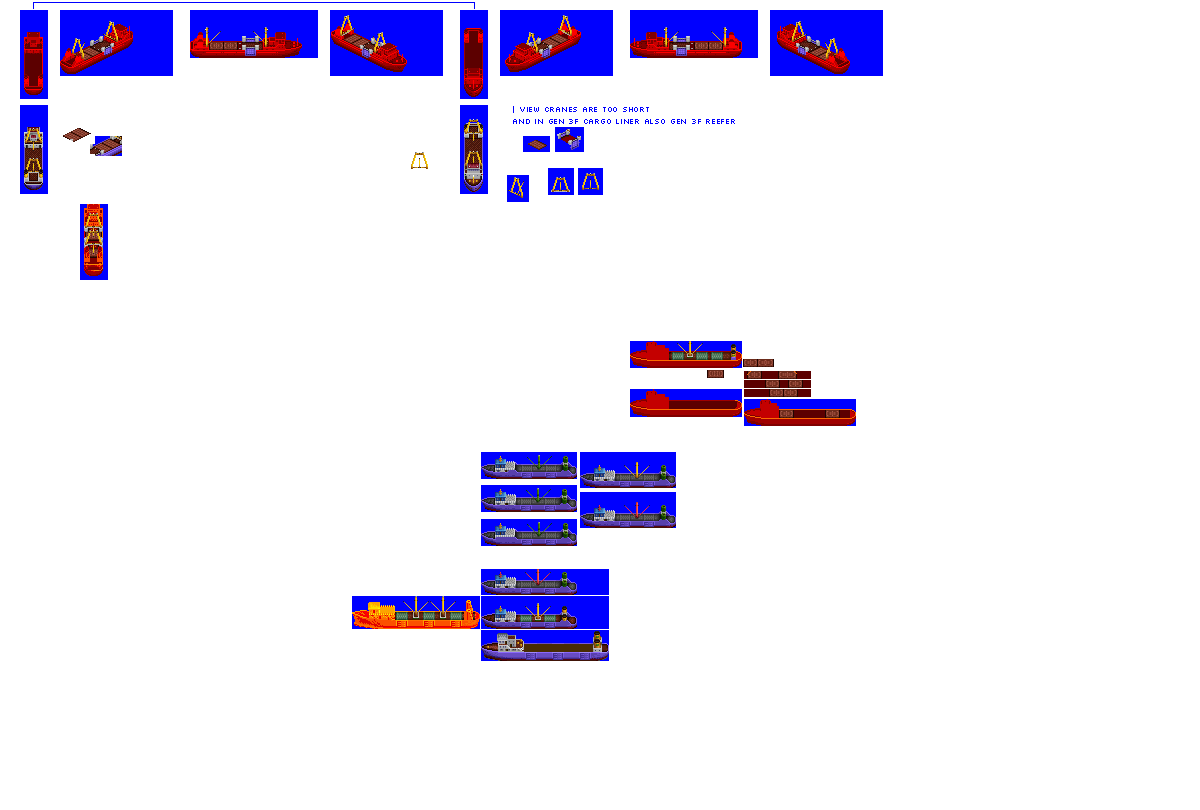
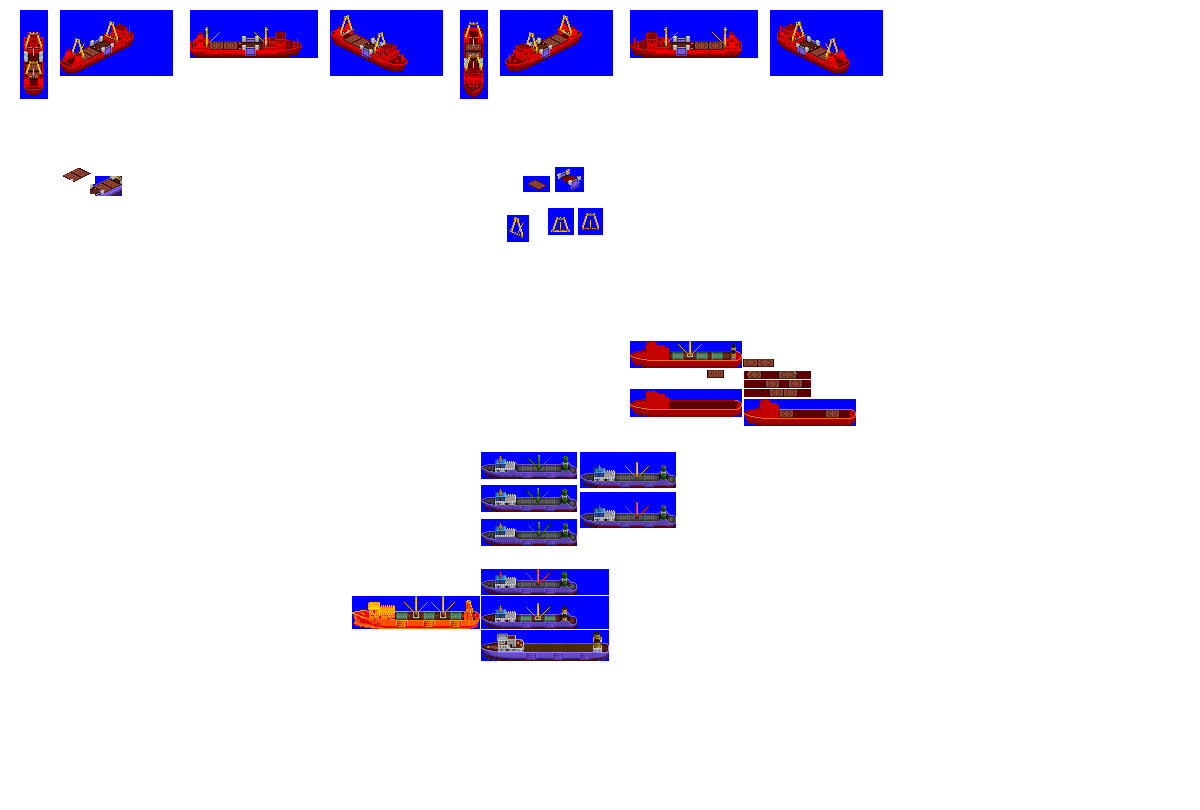
Change: sprites complete for gen 3E cargo liner

diff --git a/src/vehicles/cargo_liners.py b/src/vehicles/cargo_liners.py
@@ -49,7 +49,7 @@ def main():
         subtype="E",
         hull="ShipHouseForward",
         effect_type="EFFECT_SPRITE_DIESEL",
-        sprites_complete=False,
+        sprites_complete=True,
     )
 
     ship = CargoLiner(
